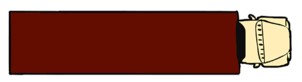
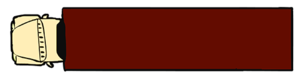
Update to Auto so cars and trucks go opposite direction, updated test to pass

diff --git a/test/Game-test.js b/test/Game-test.js
@@ -75,17 +75,18 @@ describe('Game test suite', () => {
     const truckImg = '../img/large-truck.png';
     const carImg = '../img/yellow-car.png';
     const game = new Game(frogImg, logImg, carImg, truckImg);
-    const car1 = new Auto(carImg, 0, 605, 80, 40, 2);
-    const car2 = new Auto(carImg, 100, 605, 80, 40, 2);
+    const car1 = new Auto(carImg, 0, 605, 80, 40, 4);
+    const car2 = new Auto(carImg, 100, 605, 80, 40, 4);
     const car3 = new Auto(carImg, 100, 505, 80, 40, 2);
     const car4 = new Auto(carImg, 200, 505, 80, 40, 2);
     const car5 = new Auto(carImg, 300, 505, 80, 40, 2);
-    const car6 = new Auto(carImg, 0, 405, 80, 40, 2);
-    const car7 = new Auto(carImg, 300, 405, 80, 40, 2);
-    const truck1 = new Auto(truckImg, 0, 555, 120, 40, 2);
-    const truck2 = new Auto(truckImg, 300, 555, 120, 40, 2);
-    const truck3 = new Auto(truckImg, 150, 455, 120, 40, 2);
-    const expected = [car1, car2, car3, car4, car5, car6, car7, truck1, truck2, truck3];
+    const car6 = new Auto(carImg, 0, 405, 80, 40, 3);
+    const car7 = new Auto(carImg, 350, 405, 80, 40, 3);
+    const truck1 = new Auto(truckImg, 0, 555, 120, 40, -2);
+    const truck2 = new Auto(truckImg, 300, 555, 120, 40, -2);
+    const truck3 = new Auto(truckImg, 100, 455, 120, 40, -3);
+    const expected = [car1, car2, car3, car4, car5, car6, car7, truck1, 
+      truck2, truck3];
     // Execution
     const actual = game.generateAutos();
     // Expectation

diff --git a/lib/Game.js b/lib/Game.js
@@ -32,16 +32,16 @@ class Game {
   }
 
   generateAutos() {
-    const car1 = new Auto(this.carImg, 0, 605, 80, 40, 2);
-    const car2 = new Auto(this.carImg, 100, 605, 80, 40, 2);
+    const car1 = new Auto(this.carImg, 0, 605, 80, 40, 4);
+    const car2 = new Auto(this.carImg, 100, 605, 80, 40, 4);
     const car3 = new Auto(this.carImg, 100, 505, 80, 40, 2);
     const car4 = new Auto(this.carImg, 200, 505, 80, 40, 2);
     const car5 = new Auto(this.carImg, 300, 505, 80, 40, 2);
-    const car6 = new Auto(this.carImg, 0, 405, 80, 40, 2);
-    const car7 = new Auto(this.carImg, 300, 405, 80, 40, 2);
-    const truck1 = new Auto(this.truckImg, 0, 555, 120, 40, 2);
-    const truck2 = new Auto(this.truckImg, 300, 555, 120, 40, 2);
-    const truck3 = new Auto(this.truckImg, 150, 455, 120, 40, 2);
+    const car6 = new Auto(this.carImg, 0, 405, 80, 40, 3);
+    const car7 = new Auto(this.carImg, 350, 405, 80, 40, 3);
+    const truck1 = new Auto(this.truckImg, 0, 555, 120, 40, -2);
+    const truck2 = new Auto(this.truckImg, 300, 555, 120, 40, -2);
+    const truck3 = new Auto(this.truckImg, 100, 455, 120, 40, -3);
     const vehicles = [car1, car2, car3, car4, car5, car6, car7, truck1, 
       truck2, truck3];
     return vehicles;

diff --git a/lib/Auto.js b/lib/Auto.js
@@ -7,10 +7,17 @@ class Auto extends Character {
   }
 
   move() {
-    if (this.x < 600) {
+    if (this.speed > 0) {
+      if (this.x < 600) {
+        this.x += this.speed;
+      } else {
+        this.x = -80;
+      }
+    } else if (this.speed < 0) {
+      if (this.x < -120) {
+        this.x = 680;
+      }
       this.x += this.speed;
-    } else {
-      this.x = 0;
     }
     return this;
   }

diff --git a/lib/Log.js b/lib/Log.js
@@ -10,12 +10,12 @@ class Log extends Character {
   move() {
     this.x += this.direction === 'right' ? this.speed : (this.speed * -1);
     if (this.direction === 'left') {
-      if (this.x < -225) {
+      if (this.x < -230) {
         this.x = 600;
       }
     } else {
       if (this.x > 600) {
-        this.x = -220;
+        this.x = -230;
       }
     }
     return this;

diff --git a/test/Log-test.js b/test/Log-test.js
@@ -44,7 +44,7 @@ describe('Log test suite', () => {
   it('should reset log travelling to right to initial position', () => {
     // Setup
     const log = new Log('../img/log.png', 625, 298, 250, 52, .75, 'right');
-    const expectedRight = -220;
+    const expectedRight = -230;
     // Execution
     log.move();
     const actualRight = log.x;
